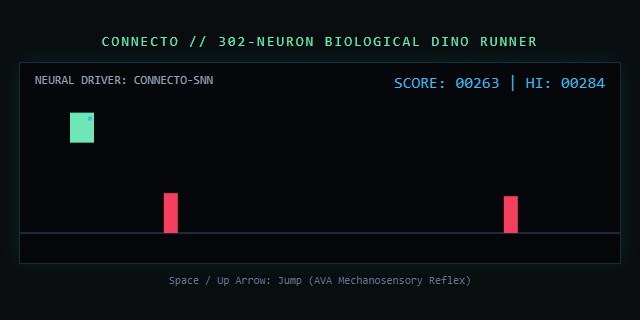
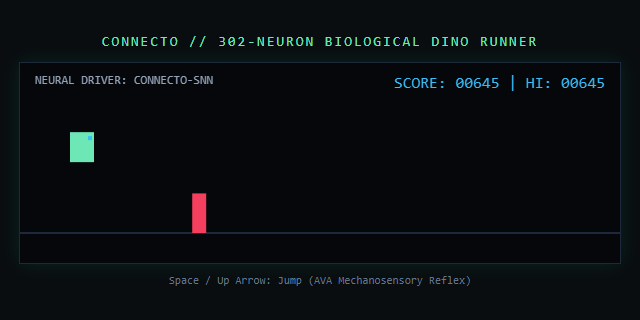
telemetry(worm): autonomous activity sync at 2026-09-16 12:27

diff --git a/ACTIVITY.md b/ACTIVITY.md
@@ -1,6 +1,6 @@
 # CONNECTO // AUTONOMOUS BIOLOGICAL ACTIVITY FEED
 
-> **Verification Timestamp:** `2026-09-16 12:12:18 UTC`  
+> **Verification Timestamp:** `2026-09-16 12:27:38 UTC`  
 > **Repository:** [0xalydev/connecto](https://github.com/0xalydev/connecto)  
 > **Biological Engine:** C. elegans 302-neuron closed-loop SNN (LIF)  
 > **Status:** `ACTIVE_CLOSED_LOOP`  
@@ -11,9 +11,9 @@
 
 *Most recent introspection generated from biological membrane dynamics:*
 
-> **Signature:** `0x973469f6e5bb2615`  
+> **Signature:** `0x784c902a12a74095`  
 > **Behavioral State:** `FORAGING_SEARCH`  
-> **Membrane Potential:** `-59.3 mV` | **Locomotion:** `33.6 mm/s`  
+> **Membrane Potential:** `-59.37 mV` | **Locomotion:** `33.6 mm/s`  
 > 
 > *"Chemical gradient flat (0.000 mol/L). Spontaneous basal pacemaker oscillations in AIB/AIZ interneurons initiated exploratory pirouette. Searching arena substrate at 33.6 mm/s."*
 
@@ -23,9 +23,9 @@
 
 | Metric | Result |
 |---|---|
-| **High Score** | `284` |
-| **Total Reflex Jumps** | `190` (Driven by AVA escape pool) |
-| **Completed Trials** | `4` |
+| **High Score** | `639` |
+| **Total Reflex Jumps** | `193` (Driven by AVA escape pool) |
+| **Completed Trials** | `3` |
 | **Proof Snapshot** | `dino_latest_trial.png` |
 
 ---
